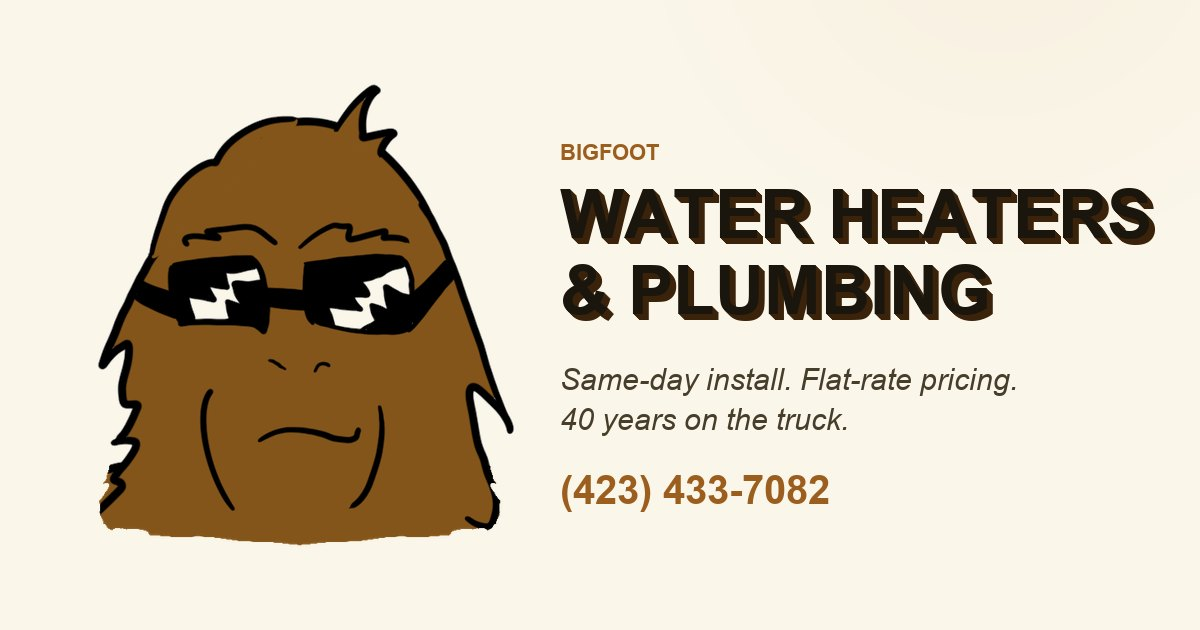
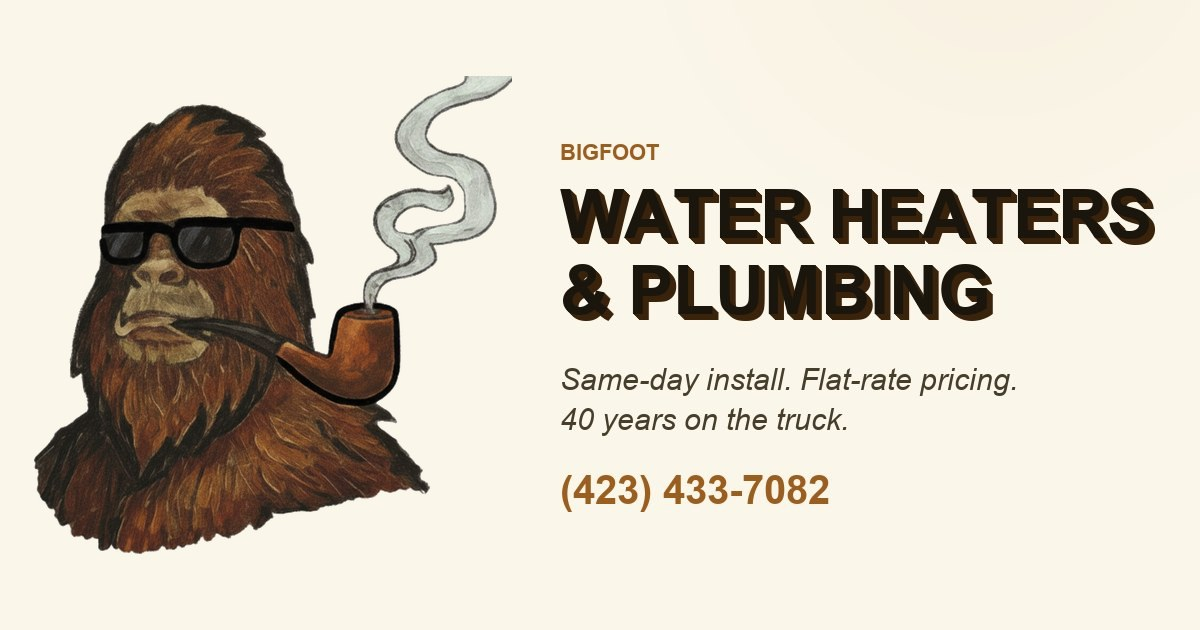
Social card: swap og-image mascot to the new bigfoot
The Open Graph / Twitter link-preview card still showed the old flat
mascot. Replaced just the art with the new pipe-and-smoke bigfoot (text
untouched), and bumped the og:image URL to ?v=2 so iMessage/X/Facebook
re-fetch instead of serving their cached copy.

Changed region(s): [[0.0308, 0.1206, 0.4317, 0.8746], [0.3083, 0.1206, 0.3392, 0.1508]]

diff --git a/index.html b/index.html
@@ -10,7 +10,7 @@
   <meta property="og:type" content="website" />
   <meta property="og:title" content="Bigfoot Water Heaters and Plumbing" />
   <meta property="og:description" content="Don't get caught with pre-historic plumbing. Same-day install. Flat rate." />
-  <meta property="og:image" content="og-image.jpg" />
+  <meta property="og:image" content="og-image.jpg?v=2" />
   <meta property="og:image:width" content="1200" />
   <meta property="og:image:height" content="630" />
   <meta name="twitter:card" content="summary_large_image" />